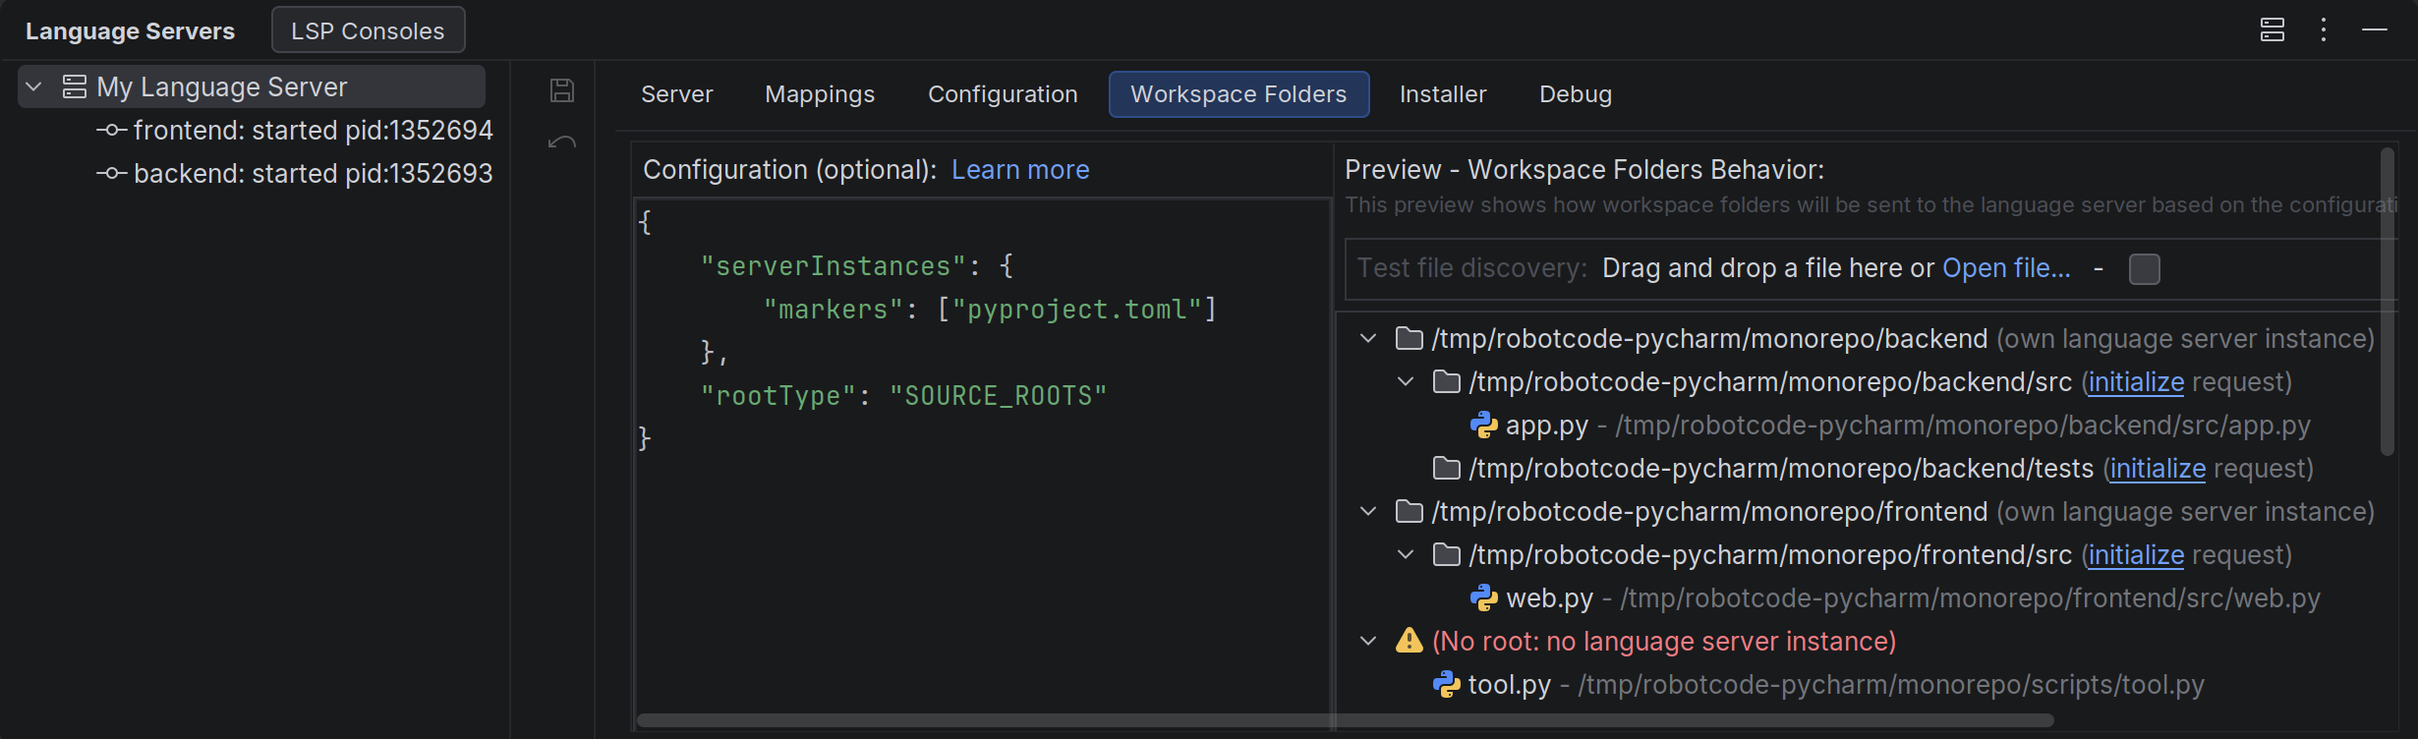
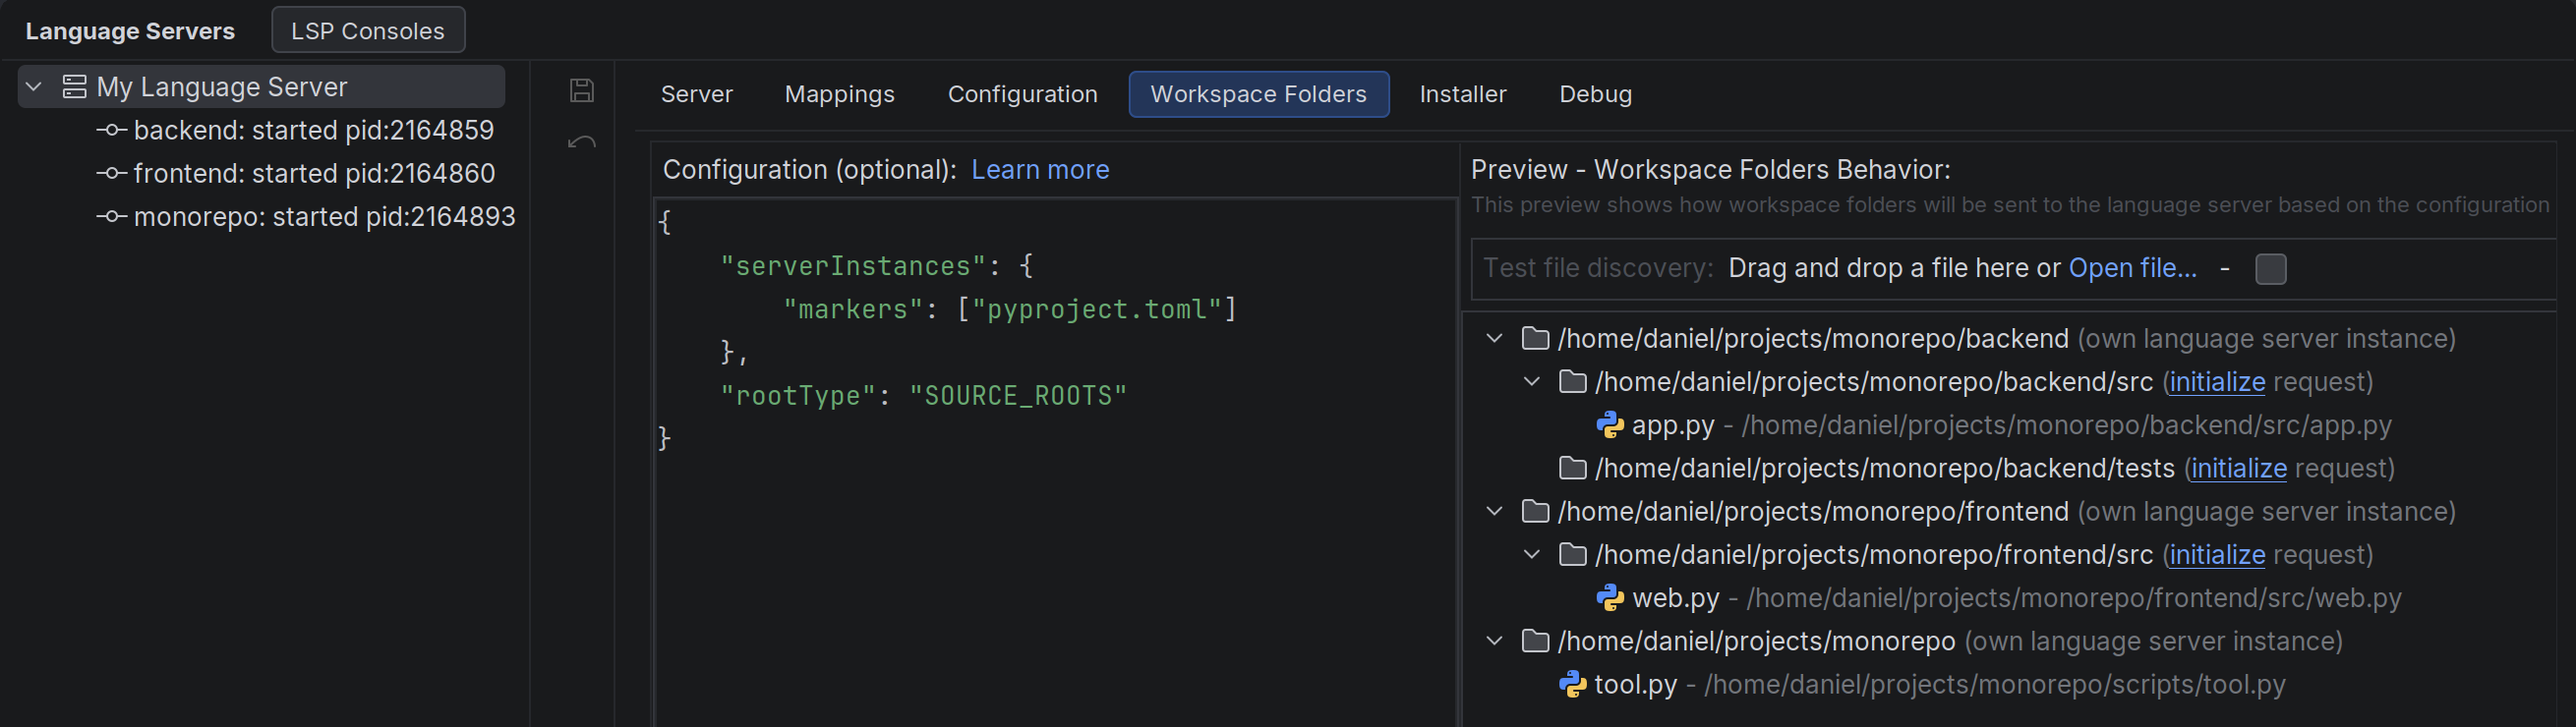
docs: describe the roots, sockets and process nodes of instances
The docs say what a file without a root gets, where the search for the
root of an instance stops, which sockets instances can use, and that
the process node of an instance stays for the next instance of its
root. A strategy with instances must not need the language server, and
the methods of the language server manager that only take an id mean
the instance created first. The screenshot shows a project with three
instances.

diff --git a/src/main/java/com/redhat/devtools/lsp4ij/LanguageServerManager.java b/src/main/java/com/redhat/devtools/lsp4ij/LanguageServerManager.java
@@ -50,8 +50,8 @@ public class LanguageServerManager {
 
     /**
      * Returns the server status of the given language server id and null otherwise. For a definition with several
-     * language server instances, this is the status of the oldest one; {@link #getServerStatus(String, WorkspaceFolder)}
-     * gives the status of the instance with a given root.
+     * language server instances, this is the status of the one created first; a plugin that knows the root uses
+     * {@link #getServerStatus(String, WorkspaceFolder)}, which gives the status of the instance with that root.
      *
      * @param languageServerId the language server id.
      * @return the server status of the given language server id and null otherwise.
@@ -73,7 +73,7 @@ public class LanguageServerManager {
      */
     @NotNull
     private ServerStatus getServerStatus(@NotNull LanguageServerDefinition serverDefinition) {
-        // The started servers keep the order in which they were created, so this is the oldest instance
+        // The started servers keep the order in which they were created, so this is the instance created first
         for (var ls : LanguageServiceAccessor.getInstance(project).getStartedServers()) {
             if (serverDefinition.equals(ls.getServerDefinition())) {
                 return ls.getServerStatus();
@@ -374,7 +374,7 @@ public class LanguageServerManager {
     }
 
     /**
-     * Returns the language server instances of the given definition, the oldest first.
+     * Returns the language server instances of the given definition, in the order in which they were created.
      */
     private @NotNull List<LanguageServerWrapper> instancesOf(@NotNull LanguageServerDefinition serverDefinition) {
         return LanguageServiceAccessor.getInstance(project).getStartedServers()
@@ -387,9 +387,9 @@ public class LanguageServerManager {
 
     /**
      * Returns the initialized language server item from the given language server id and null otherwise. For a
-     * definition with several language server instances, this is the oldest one, which is started if it stopped;
-     * {@link #getLanguageServer(String, VirtualFile)} gives the instance that serves a file, and
-     * {@link #getLanguageServers(String)} gives all of them.
+     * definition with several language server instances, this is the one created first, which is started if it
+     * stopped; a plugin that knows the file uses {@link #getLanguageServer(String, VirtualFile)}, which gives the
+     * instance that serves it, and {@link #getLanguageServers(String)} gives all of them.
      *
      * @param languageServerId the language server id.
      * @return the initialized language server item from the given language server id and null otherwise.
@@ -400,7 +400,7 @@ public class LanguageServerManager {
             return CompletableFuture.completedFuture(null);
         }
         if (serverDefinition.hasServerInstances()) {
-            // Without a file, nothing tells which instance is meant: take the oldest one, and create none
+            // Without a file, nothing tells which instance is meant: take the one created first, and create none
             var instances = instancesOf(serverDefinition);
             return instances.isEmpty() ? CompletableFuture.completedFuture(null) : getInitializedServer(instances.get(0));
         }
@@ -456,8 +456,8 @@ public class LanguageServerManager {
 
     /**
      * Returns the initialized language server items of the given language server id: all instances of a definition
-     * with several, the oldest first, and the one language server of a definition without instances. Instances that
-     * stopped are started again.
+     * with several, in the order in which they were created, and the one language server of a definition without
+     * instances. Instances that stopped are started again, so this starts the process of each of them.
      *
      * @param languageServerId the language server id.
      * @return the initialized language server items of the given language server id.

diff --git a/docs/DeveloperGuide.md b/docs/DeveloperGuide.md
@@ -1315,15 +1315,16 @@ public class MyWorkspaceFolderStrategy extends ProjectWorkspaceFolderStrategy {
 
 Set this strategy with a workspace folder feature as described above. Then:
 
- * `getServerInstanceRoot` decides which instance serves a file, and files with the same root share an instance. By default, the root is the workspace folder of the file, so each workspace folder gets an instance of its own. Override it to separate the instances from the workspace folders, for example to give all content roots of a module one instance. It's also asked about the directories of workspace folders, so a directory that is a root has to give itself.
- * A file without a root gets no instance, so this language server provides no features for it.
+ * LSP4IJ asks the strategy before an instance exists, so the strategy must not need the language server. If getting it fails, one language server serves the project, and the log says why.
+ * `getServerInstanceRoot` decides which instance serves a file, and files with the same root share an instance, however the URI of the root is written. By default, the root is the workspace folder of the file, so each workspace folder gets an instance of its own. Override it to separate the instances from the workspace folders, for example to give all content roots of a module one instance. It's also asked about the directories of workspace folders, so a directory that is a root has to give itself.
+ * A file without a root gets no instance, so this language server provides no features for it. LSP4IJ says so once, when such a file is open in an editor.
  * An instance starts when the first of its files is opened. It's initialized with its root as `rootUri`.
  * The workspace folders work for an instance as they work for a language server without instances, with the folders that belong to it: a workspace folder belongs to the instance that its own directory has as root (`belongsToServerInstance`). If none does and the strategy sends its folders at initialization, the instance gets its root.
  * With lazy loading, an instance gets its folders through `workspace/didChangeWorkspaceFolders` as their files are opened. A folder that belongs to another instance, or that contains several, doesn't reach it: its root takes that folder's place.
  * File events and file operations aren't limited to the workspace folders of an instance: each instance gets what it registered, as with a language server client per folder in VS Code.
  * A file that is moved or renamed goes to the instance of its new place, or to none if its new place has no root.
  * Requests without a file, such as workspace symbols, go to all instances, and start those that stopped.
- * The Language Servers view shows each instance as a process of its own, with the name of its root.
+ * The Language Servers view shows each instance as a process of its own, with the path of its root in the project. The node of an instance stays when the instance stops or is replaced, with its traces and logs, and the next instance of that root takes it over.
 
 By default, all instances run the same way. If each one needs its own command, for example the interpreter of its module, override the methods of the factory that get the root of the instance:
 
@@ -1366,11 +1367,11 @@ manager.getLanguageServer("myLanguageServerId", file)
 manager.start("myLanguageServerId", instanceRoot, new LanguageServerManager.StartOptions().setForceStart(true));
 manager.stop("myLanguageServerId", instanceRoot, LanguageServerManager.StopOptions.DEFAULT);
 var status = manager.getServerStatus("myLanguageServerId", instanceRoot);
-// All instances, the oldest first
+// All instances, in the order in which they were created, started if they stopped
 manager.getLanguageServers("myLanguageServerId");
 ```
 
-The methods that only take the id mean the oldest instance. With `forceStart`, `start("myLanguageServerId", options)` creates no instance, because without a file nothing tells which one: start each instance with its root instead. `install` runs the installer once for all instances.
+The methods that only take the id mean the instance created first, so use the ones with the file or the root where you know them. With `forceStart`, `start("myLanguageServerId", options)` creates no instance, because without a file nothing tells which one: start each instance with its root instead. `install` runs the installer once for all instances.
 
 ## User-Defined Language Server Configuration
 

diff --git a/docs/UserDefinedLanguageServer.md b/docs/UserDefinedLanguageServer.md
@@ -314,11 +314,12 @@ By default, one language server instance serves all workspace folders of a proje
 
 Files with the same root share an instance:
 
- * An instance starts when the first of its files is opened. The Language Servers view shows it as a process of its own, with the name of its root.
+ * An instance starts when the first of its files is opened. The Language Servers view shows it as a process of its own, with the path of its root in the project. Its node stays when the instance stops or is replaced, with its traces and logs, for the next instance of that root.
  * It's initialized with its root as `rootUri`.
- * A file without a root gets no instance, so this language server provides no features for it. With `"rootType": "NONE"` in `serverInstances`, no file has a root, so no instance starts.
- * With markers, the search doesn't stop at the project: a marker above the project's folder can make that folder the root.
+ * A file without a root gets no instance, so this language server provides no features for it. LSP4IJ says so once, when such a file is open in an editor.
+ * With markers, the search stops at the project: a file without a marker up to its topmost content root has that content root as its root, so no instance runs above the project.
  * All instances use the same command. If no working directory is configured, an instance runs in its root.
+ * Each instance needs a connection of its own. Over a socket, use an automatic port, and let LSP4IJ start the language server: the settings don't save `serverInstances` with a language server that runs already, or with a fixed port.
 
 Without `rootType` and `markers` next to `serverInstances`, the root is the only workspace folder of an instance. With them, they describe the workspace folders inside an instance:
 
@@ -333,7 +334,7 @@ Without `rootType` and `markers` next to `serverInstances`, the root is the only
 
 Here, each folder with a `pyproject.toml` has an instance, and that instance gets the source roots inside it. With `"lazy": true`, it gets them through `workspace/didChangeWorkspaceFolders` as their files are opened. A workspace folder that belongs to another instance, or that contains several, doesn't reach an instance. An instance that would be left without a folder gets its root, unless `rootType` next to `serverInstances` is `NONE`.
 
-In this example, `backend` and `frontend` each contain a `pyproject.toml` and source roots, so each has its own instance. `scripts/tool.py` has no marker above it, so it gets none:
+In this example, `backend` and `frontend` each contain a `pyproject.toml` and source roots, so each has its own instance. `scripts/tool.py` has no marker up to the project's folder, so that folder is its root, with an instance of its own:
 
 ![Several language server instances](./images/workspace-folders/ServerInstances.png)
 
